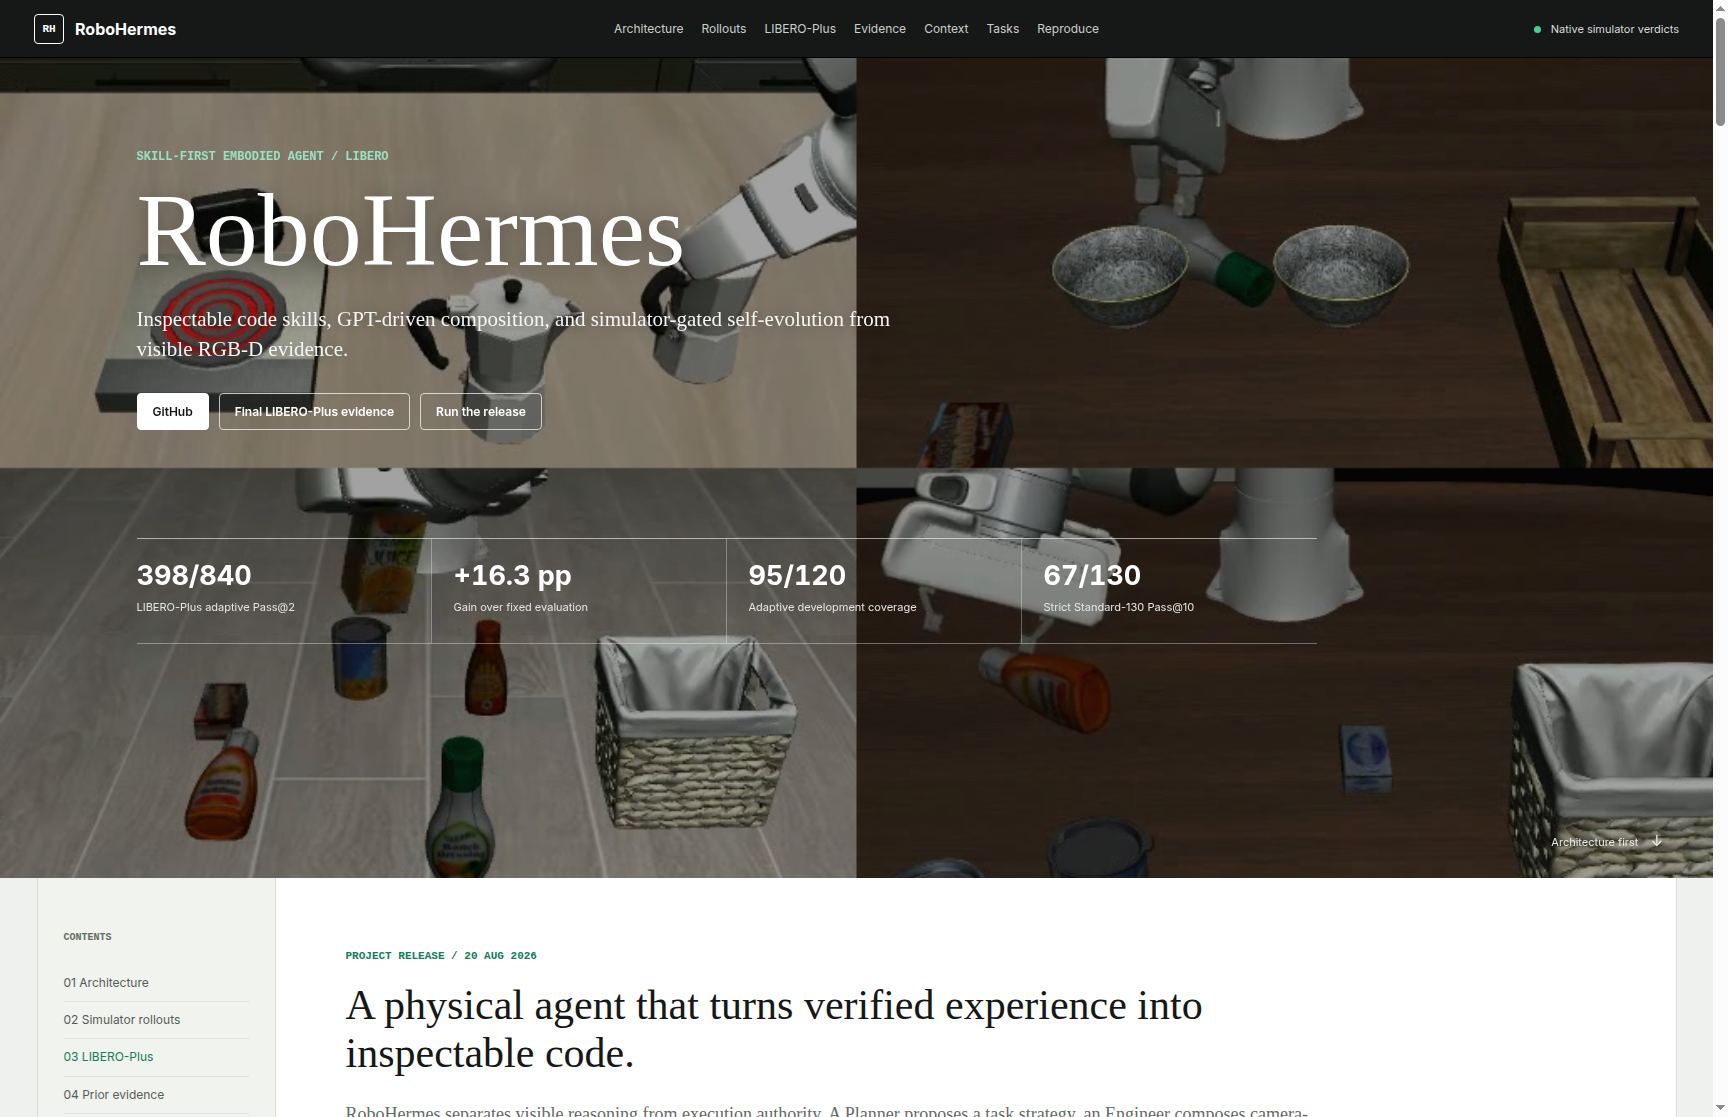
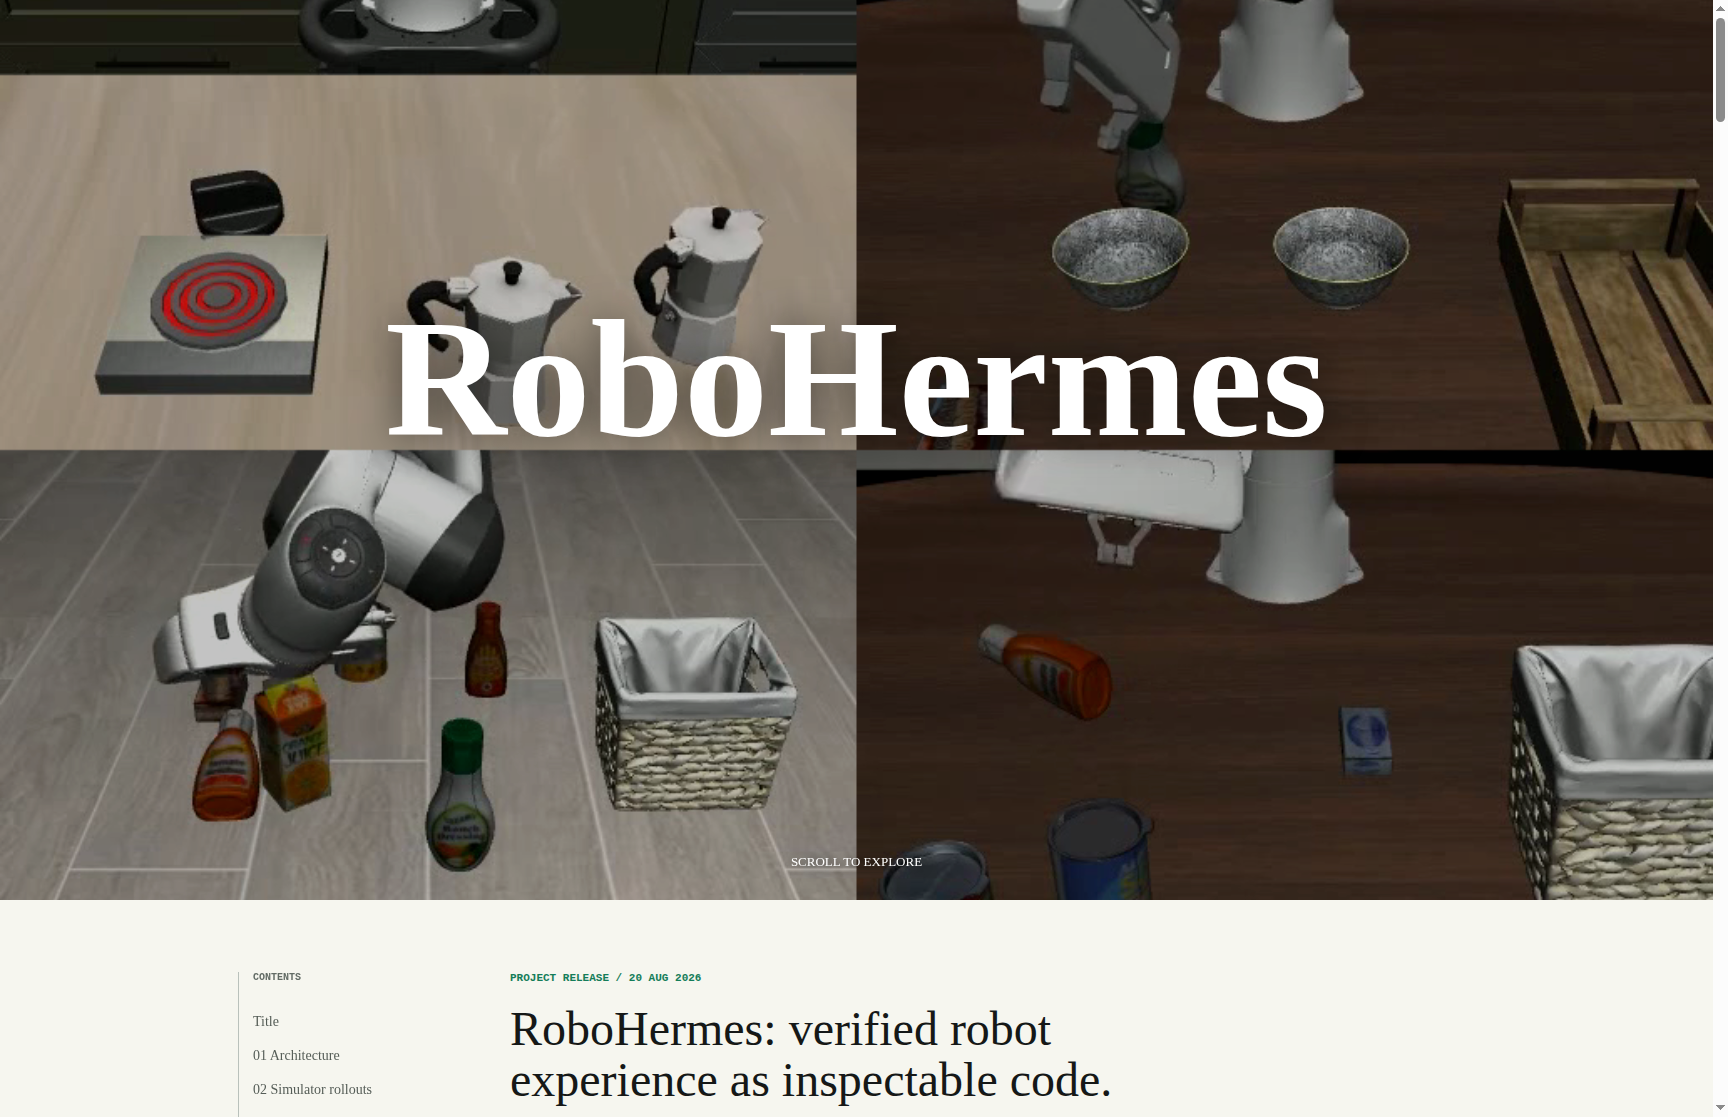
feat: align project page with ENPIRE editorial layout

diff --git a/src/robohermes_libero/static/styles.css b/src/robohermes_libero/static/styles.css
@@ -4,9 +4,9 @@
   --muted: #626b65;
   --line: #d8ddd8;
   --line-strong: #b9c1bb;
-  --paper: #ffffff;
-  --ground: #eef1ed;
-  --band: #f7f8f5;
+  --paper: #f6f6ef;
+  --ground: #f6f6ef;
+  --band: #f6f6ef;
   --green: #147d59;
   --green-soft: #dcefe5;
   --coral: #d85c44;
@@ -26,89 +26,68 @@
 
 * { box-sizing: border-box; }
 html { scroll-behavior: smooth; }
-body { min-width: 1100px; margin: 0; background: var(--ground); }
+body { min-width: 1100px; margin: 0; background: #0c0c0c; }
 button, input { font: inherit; letter-spacing: 0; }
 a { color: inherit; }
 code { font-family: var(--mono); }
 
-.topbar {
-  position: sticky;
-  top: 0;
-  z-index: 40;
-  display: grid;
-  grid-template-columns: 240px 1fr 240px;
-  align-items: center;
-  height: 58px;
-  padding: 0 34px;
-  color: #fff;
-  background: var(--ink);
-  border-bottom: 1px solid #000;
-}
-
-.brand { display: flex; gap: 11px; align-items: center; font-weight: 700; text-decoration: none; }
-.brand-mark { display: grid; place-items: center; width: 30px; height: 30px; border: 1px solid #fff; border-radius: 4px; font: 700 11px var(--mono); }
-.topbar nav { justify-self: center; display: flex; gap: 18px; }
-.topbar nav a { color: #cbd0cc; font-size: 12px; text-decoration: none; }
-.topbar nav a:hover { color: #fff; }
-.evidence-state { justify-self: end; color: #d7ddd8; font-size: 11px; }
-.evidence-state span { display: inline-block; width: 7px; height: 7px; margin-right: 7px; border-radius: 50%; background: #4bd093; }
-
-.hero {
+.article-hero {
   position: relative;
-  height: min(820px, calc(88vh - 58px));
-  min-height: 680px;
+  height: calc(100svh - 64px);
+  min-height: 650px;
+  max-height: 900px;
+  padding: 0;
   overflow: hidden;
   color: #fff;
-  background: #111;
+  background: #050505;
 }
 
-.hero-video { position: absolute; inset: 0; width: 100%; height: 100%; object-fit: cover; filter: saturate(1.05) contrast(1.04); }
-.hero-shade { position: absolute; inset: 0; background: rgba(8, 10, 9, 0.38); }
-.hero-content { position: relative; z-index: 2; width: min(1440px, calc(100% - 112px)); margin: 0 auto; padding-top: 92px; }
-.hero-kicker { margin: 0 0 18px; color: #9be0c3; font: 700 12px var(--mono); }
-.hero h1 { margin: 0; color: #fff; font: 500 104px/0.93 var(--serif); text-shadow: 0 2px 20px rgba(0,0,0,0.32); }
-.hero-deck { max-width: 790px; margin: 25px 0 28px; color: #f4f6f4; font: 400 21px/1.45 var(--serif); text-shadow: 0 1px 13px rgba(0,0,0,0.38); }
-.hero-links { display: flex; gap: 10px; }
-.hero-links a { padding: 10px 15px; border: 1px solid rgba(255,255,255,0.7); border-radius: 4px; color: #fff; font-size: 12px; font-weight: 650; text-decoration: none; }
-.hero-links a:first-child { color: var(--ink); background: #fff; border-color: #fff; }
-.hero-links a:hover { border-color: #fff; }
-.hero-results { position: absolute; top: 480px; left: 0; right: 0; display: grid; grid-template-columns: repeat(4, minmax(210px, 1fr)); max-width: 1180px; border-top: 1px solid rgba(255,255,255,0.58); border-bottom: 1px solid rgba(255,255,255,0.36); }
-.hero-results span { min-height: 104px; padding: 20px 24px 15px 0; color: #e3e7e4; border-right: 1px solid rgba(255,255,255,0.32); font-size: 11px; }
-.hero-results span + span { padding-left: 22px; }
-.hero-results span:last-child { border-right: 0; }
-.hero-results strong { display: block; margin-bottom: 8px; color: #fff; font-size: 27px; font-variant-numeric: tabular-nums; }
-.scroll-cue { position: absolute; z-index: 3; right: 50px; bottom: 28px; color: #e8ece9; font-size: 11px; text-decoration: none; }
-.scroll-cue span { margin-left: 9px; font-size: 15px; }
+.article-hero__sticky { position: relative; top: 0; height: 100%; overflow: hidden; }
+.article-hero__video { position: absolute; inset: 0; width: 100%; height: 100%; object-fit: cover; filter: saturate(1.05) contrast(1.04); }
+.hero-shade { position: absolute; inset: 0; background: rgba(5, 5, 5, 0.24); }
+.article-hero__title { position: absolute; z-index: 2; top: 42%; left: 50%; display: flex; width: min(90%, 1100px); align-items: center; justify-content: center; text-align: center; transform: translate(-50%, -50%); }
+.article-hero__wordmark { margin: 0; color: #fff; font: 600 168px/1 var(--serif); letter-spacing: 0; text-shadow: 0 2px 40px rgba(0,0,0,0.55); }
+.scroll-cue { position: absolute; z-index: 3; bottom: 30px; left: 50%; color: #fff; font: 500 13px var(--serif); letter-spacing: 0; text-decoration: none; text-shadow: 0 1px 12px rgba(0,0,0,0.7); text-transform: uppercase; transform: translateX(-50%); }
 
-.article-layout { display: grid; grid-template-columns: 238px minmax(0, 1fr); max-width: 1640px; margin: 0 auto; background: var(--paper); border-left: 1px solid var(--line); border-right: 1px solid var(--line); }
-.article-outline { align-self: start; position: sticky; top: 58px; height: calc(100vh - 58px); padding: 54px 26px; border-right: 1px solid var(--line); background: #f1f3ef; }
+.article-body { padding: 72px 48px 104px; color: var(--ink); background: var(--paper); scroll-margin-top: 0; }
+.article-layout { display: grid; grid-template-columns: 176px minmax(0, 965px); justify-content: center; align-items: start; gap: 96px; width: min(1440px, 100%); min-width: 0; margin: 0 auto; }
+.article-outline { align-self: start; position: sticky; top: 72px; min-width: 0; max-width: 100%; padding: 0 0 0 14px; border-left: 1px solid var(--line-strong); }
 .article-outline > strong { display: block; margin-bottom: 22px; color: var(--muted); font: 700 10px var(--mono); text-transform: uppercase; }
 .article-outline nav { display: grid; }
-.article-outline nav a { padding: 10px 0; color: #555d57; border-bottom: 1px solid #dfe3de; font-size: 12px; line-height: 1.35; text-decoration: none; }
+.article-outline nav a { padding: 8px 0; color: #555d57; font: 14px/1.3 var(--serif); text-decoration: none; }
 .article-outline nav a:hover, .article-outline nav a[aria-current="true"] { color: var(--green); }
-.outline-note { position: absolute; right: 26px; bottom: 34px; left: 26px; padding-top: 15px; border-top: 1px solid var(--line-strong); }
+.outline-note { margin-top: 34px; padding-top: 15px; border-top: 1px solid var(--line-strong); }
 .outline-note span { color: var(--coral); font: 700 10px var(--mono); text-transform: uppercase; }
 .outline-note p { margin: 8px 0 0; color: var(--muted); font-size: 11px; line-height: 1.55; }
-.article-shell { min-width: 0; background: #fff; }
+.article-shell { width: min(965px, 100%); min-width: 0; margin: 0 auto; background: transparent; }
 
-.project-intro { padding: 72px 70px 58px; border-bottom: 1px solid var(--line); }
+.project-intro { margin: 0 0 72px; padding: 0 0 40px; border-bottom: 1px solid var(--line-strong); }
+#article-title { scroll-margin-top: 32px; }
 .section-label { margin: 0 0 20px; color: var(--green); font: 700 11px var(--mono); }
-.project-intro h2 { max-width: 1000px; margin: 0 0 22px; font: 500 42px/1.14 var(--serif); }
-.project-intro > p:not(.section-label) { max-width: 1000px; margin: 0; color: var(--muted); font: 18px/1.65 var(--serif); }
-.intro-facts { display: grid; grid-template-columns: repeat(4, 1fr); margin-top: 45px; border-top: 1px solid var(--line); border-bottom: 1px solid var(--line); }
+.project-intro h1 { max-width: 940px; margin: 0 0 26px; font: 400 48px/1.06 var(--serif); text-wrap: balance; }
+.project-intro > p:not(.section-label) { max-width: 940px; margin: 0; color: var(--ink-soft); font: 19px/1.6 var(--serif); }
+.article-links { display: flex; gap: 10px; margin-top: 26px; }
+.article-links a { padding: 9px 14px; color: var(--ink); border: 1px solid var(--line-strong); border-radius: 4px; font-size: 12px; text-decoration: none; }
+.article-links a:first-child { color: #fff; border-color: var(--ink); background: var(--ink); }
+.intro-results { display: grid; grid-template-columns: repeat(4, 1fr); margin-top: 42px; border-top: 1px solid var(--line-strong); border-bottom: 1px solid var(--line-strong); }
+.intro-results span { min-height: 96px; padding: 18px; color: var(--muted); border-right: 1px solid var(--line); font-size: 10px; }
+.intro-results span:first-child { padding-left: 0; }
+.intro-results span:last-child { border-right: 0; }
+.intro-results strong { display: block; margin-bottom: 7px; color: var(--ink); font-size: 25px; font-variant-numeric: tabular-nums; }
+.intro-facts { display: grid; grid-template-columns: repeat(4, 1fr); margin-top: 24px; border-top: 1px solid var(--line); border-bottom: 1px solid var(--line); }
 .intro-facts span { min-height: 86px; padding: 17px 18px; border-right: 1px solid var(--line); color: var(--muted); font-size: 11px; }
 .intro-facts span:first-child { padding-left: 0; }
 .intro-facts span:last-child { border-right: 0; }
 .intro-facts strong { display: block; margin-bottom: 6px; color: var(--ink); font-size: 24px; font-variant-numeric: tabular-nums; }
 
-.article-section { padding: 72px 70px; border-bottom: 1px solid var(--line); scroll-margin-top: 58px; }
-.article-section:nth-of-type(even) { background: var(--band); }
+.article-section { padding: 64px 0 72px; border-bottom: 1px solid var(--line); scroll-margin-top: 20px; }
+.article-section:nth-of-type(even) { background: transparent; }
 .section-heading { display: flex; align-items: flex-end; justify-content: space-between; gap: 36px; margin-bottom: 38px; }
 .section-heading > div:first-child { display: flex; gap: 14px; align-items: baseline; }
 .section-heading > div > span { color: var(--coral); font: 700 11px var(--mono); }
-.section-heading h2 { margin: 0; font: 500 31px/1.1 var(--serif); }
+.section-heading h2 { margin: 0; font: 400 36px/1.1 var(--serif); }
 .section-heading > p { max-width: 480px; margin: 0 0 2px; color: var(--muted); font-size: 12px; line-height: 1.5; text-align: right; }
-.section-lede { max-width: 950px; margin: -10px 0 34px; color: var(--muted); font: 16px/1.62 var(--serif); }
+.section-lede { max-width: 900px; margin: -10px 0 34px; color: var(--ink-soft); font: 18px/1.6 var(--serif); }
 
 .architecture-canvas { position: relative; padding-top: 28px; }
 .boundary-title { position: absolute; top: 0; left: 0; color: var(--green); font: 700 10px var(--mono); }
@@ -151,11 +130,11 @@ code { font-family: var(--mono); }
 .key-recovery { background: var(--coral); }
 .key-verdict { background: var(--blue); }
 
-.plus-section { background: #fff !important; }
-.plus-score-lockup { display: grid; grid-template-columns: minmax(360px, 0.9fr) minmax(560px, 1.1fr); gap: 52px; align-items: stretch; padding: 34px 0; border-top: 1px solid var(--line-strong); border-bottom: 1px solid var(--line-strong); }
+.plus-section { background: transparent !important; }
+.plus-score-lockup { display: grid; grid-template-columns: minmax(0, 0.9fr) minmax(0, 1.1fr); gap: 36px; align-items: stretch; padding: 34px 0; border-top: 1px solid var(--line-strong); border-bottom: 1px solid var(--line-strong); }
 .plus-score-copy > span, .plus-stage-heading > span, .plus-video-heading span { display: block; color: var(--green); font: 700 9px var(--mono); }
 .plus-score-copy h3 { max-width: 600px; margin: 12px 0 14px; font: 500 29px/1.17 var(--serif); }
-.plus-score-copy p { margin: 0; color: var(--muted); font: 14px/1.6 var(--serif); }
+.plus-score-copy p { margin: 0; color: var(--ink-soft); font: 17px/1.6 var(--serif); }
 .plus-score-pair { display: grid; grid-template-columns: repeat(3, 1fr); align-items: stretch; border-left: 1px solid var(--line); }
 .plus-score-pair > div { min-width: 0; padding: 22px 12px 18px 24px; border-right: 1px solid var(--line); }
 .plus-score-pair > div:last-child { border-right: 0; }
@@ -208,7 +187,7 @@ code { font-family: var(--mono); }
 .track-label.case { color: var(--coral); }
 .evidence-track h3 { margin: 0; font: 600 28px/1.15 var(--serif); }
 .track-score { font: 600 30px var(--serif); font-variant-numeric: tabular-nums; }
-.evidence-track > p:not(.scope-note) { max-width: 980px; margin: 0 0 30px; color: var(--muted); font: 15px/1.6 var(--serif); }
+.evidence-track > p:not(.scope-note) { max-width: 920px; margin: 0 0 30px; color: var(--ink-soft); font: 17px/1.6 var(--serif); }
 .track-grid { display: grid; grid-template-columns: minmax(0, 1.45fr) minmax(270px, 0.7fr); gap: 36px; align-items: start; }
 figure { min-width: 0; margin: 0; }
 figcaption { margin-bottom: 12px; font-size: 11px; font-weight: 700; }
@@ -338,14 +317,12 @@ footer { display: flex; align-items: center; justify-content: space-between; max
 .sr-only { position: absolute; width: 1px; height: 1px; padding: 0; margin: -1px; overflow: hidden; clip: rect(0, 0, 0, 0); white-space: nowrap; border: 0; }
 
 @media (max-width: 1240px) {
-  .hero-content { width: calc(100% - 80px); }
-  .hero h1 { font-size: 92px; }
-  .hero-results { grid-template-columns: repeat(4, minmax(190px, 1fr)); }
-  .article-layout { grid-template-columns: 190px minmax(0, 1fr); }
-  .article-outline { padding-right: 20px; padding-left: 20px; }
-  .article-section, .project-intro { padding-right: 46px; padding-left: 46px; }
+  .article-hero__wordmark { font-size: 132px; }
+  .article-body { padding-right: 32px; padding-left: 32px; }
+  .article-layout { grid-template-columns: 160px minmax(0, 860px); gap: 42px; }
+  .article-outline { top: 58px; }
   .video-grid { gap: 13px; }
   .host-boundary { grid-template-columns: 205px 205px 1fr; }
-  .plus-score-lockup { grid-template-columns: 0.8fr 1.2fr; gap: 34px; }
+  .plus-score-lockup { grid-template-columns: minmax(0, 0.8fr) minmax(0, 1.2fr); gap: 28px; }
   .plus-score-pair strong { font-size: 27px; }
 }

diff --git a/src/robohermes_libero/static/index.html b/src/robohermes_libero/static/index.html
@@ -10,68 +10,53 @@
     <link rel="stylesheet" href="styles.css">
   </head>
   <body>
-    <header class="topbar">
-      <a class="brand" href="#overview" aria-label="RoboHermes overview">
-        <span class="brand-mark">RH</span>
-        <span>RoboHermes</span>
-      </a>
-      <nav aria-label="Project sections">
-        <a href="#architecture">Architecture</a>
-        <a href="#simulations">Rollouts</a>
-        <a href="#libero-plus">LIBERO-Plus</a>
-        <a href="#experiments">Evidence</a>
-        <a href="#comparison">Context</a>
-        <a href="#tasks">Tasks</a>
-        <a href="#reproduce">Reproduce</a>
-      </nav>
-      <div class="evidence-state"><span></span> Native simulator verdicts</div>
-    </header>
-
-    <section id="overview" class="hero" aria-labelledby="hero-title">
-      <video class="hero-video" autoplay loop muted playsinline preload="auto" src="media/hero-libero-short.mp4"></video>
-      <div class="hero-shade" aria-hidden="true"></div>
-      <div class="hero-content">
-        <p class="hero-kicker">SKILL-FIRST EMBODIED AGENT / LIBERO</p>
-        <h1 id="hero-title">RoboHermes</h1>
-        <p class="hero-deck">Inspectable code skills, GPT-driven composition, and simulator-gated self-evolution from visible RGB-D evidence.</p>
-        <div class="hero-links" aria-label="Project resources">
-          <a href="https://github.com/nssmd/RoboHermes-LIBERO">GitHub</a>
-          <a href="#libero-plus">Final LIBERO-Plus evidence</a>
-          <a href="#reproduce">Run the release</a>
+    <section id="overview" class="article-hero" aria-labelledby="hero-title">
+      <div class="article-hero__sticky">
+        <video class="article-hero__video" autoplay loop muted playsinline preload="auto" src="media/hero-libero-short.mp4"></video>
+        <div class="hero-shade" aria-hidden="true"></div>
+        <div class="article-hero__title">
+          <h1 id="hero-title" class="article-hero__wordmark">RoboHermes</h1>
         </div>
-        <div class="hero-results" aria-label="Headline results">
-          <span><strong id="hero-plus-score">--</strong>LIBERO-Plus adaptive Pass@2</span>
-          <span><strong id="hero-plus-uplift">--</strong>Gain over fixed evaluation</span>
-          <span><strong id="hero-adaptive">95/120</strong>Adaptive development coverage</span>
-          <span><strong>67/130</strong>Strict Standard-130 Pass@10</span>
-        </div>
+        <a class="scroll-cue" href="#article-content">Scroll to explore</a>
       </div>
-      <a class="scroll-cue" href="#architecture">Architecture first <span aria-hidden="true">↓</span></a>
     </section>
 
-    <main class="article-layout">
-      <aside class="article-outline" aria-label="Article outline">
-        <strong>Contents</strong>
-        <nav>
-          <a href="#architecture">01 Architecture</a>
-          <a href="#simulations">02 Simulator rollouts</a>
-          <a href="#libero-plus">03 LIBERO-Plus</a>
-          <a href="#experiments">04 Prior evidence</a>
-          <a href="#comparison">05 Competitive context</a>
-          <a href="#tasks">06 Task evidence</a>
-          <a href="#reproduce">07 Reproduce</a>
-        </nav>
-        <div class="outline-note">
-          <span>Result boundary</span>
-          <p>Adaptive, strict, matched-ablation, and ACT results remain separate.</p>
-        </div>
-      </aside>
+    <main id="article-content" class="article-body">
+      <div class="article-layout">
+        <aside class="article-outline" aria-label="Article outline">
+          <strong>Contents</strong>
+          <nav>
+            <a href="#article-title">Title</a>
+            <a href="#architecture">01 Architecture</a>
+            <a href="#simulations">02 Simulator rollouts</a>
+            <a href="#libero-plus">03 LIBERO-Plus</a>
+            <a href="#experiments">04 Prior evidence</a>
+            <a href="#comparison">05 Competitive context</a>
+            <a href="#tasks">06 Task evidence</a>
+            <a href="#reproduce">07 Reproduce</a>
+          </nav>
+          <div class="outline-note">
+            <span>Result boundary</span>
+            <p>Adaptive, strict, matched-ablation, and ACT results remain separate.</p>
+          </div>
+        </aside>
 
-      <article class="article-shell">
-        <header class="project-intro">
+        <article class="article-shell">
+        <header id="article-title" class="project-intro article-title-block">
           <p class="section-label">PROJECT RELEASE / 20 AUG 2026</p>
-          <h2>A physical agent that turns verified experience into inspectable code.</h2>
+          <h1>RoboHermes: verified robot experience as inspectable code.</h1>
           <p>RoboHermes separates visible reasoning from execution authority. A Planner proposes a task strategy, an Engineer composes camera-grounded tools, and a Reviewer diagnoses the visible trace. Candidate code enters an isolated overlay and is retained only after a native simulator-success harness verdict.</p>
+          <div class="article-links" aria-label="Project resources">
+            <a href="https://github.com/nssmd/RoboHermes-LIBERO">GitHub</a>
+            <a href="#libero-plus">LIBERO-Plus evidence</a>
+            <a href="#reproduce">Reproduce</a>
+          </div>
+          <div class="intro-results" aria-label="Headline results">
+            <span><strong id="hero-plus-score">--</strong>LIBERO-Plus adaptive Pass@2</span>
+            <span><strong id="hero-plus-uplift">--</strong>Gain over fixed evaluation</span>
+            <span><strong id="hero-adaptive">95/120</strong>Adaptive development coverage</span>
+            <span><strong>67/130</strong>Strict Standard-130 Pass@10</span>
+          </div>
           <div class="intro-facts">
             <span><strong>35</strong>base tools</span>
             <span><strong>840</strong>Plus identities</span>
@@ -345,7 +330,8 @@
             <a href="https://github.com/nssmd/RoboHermes-LIBERO/blob/main/SOCIAL_COPY.md">X launch copy</a>
           </div>
         </section>
-      </article>
+        </article>
+      </div>
     </main>
 
     <footer>

diff --git a/tests/test_dashboard.py b/tests/test_dashboard.py
@@ -253,3 +253,28 @@ def test_project_page_exposes_enpire_style_libero_plus_evidence_surface() -> Non
     assert "media/figures/libero-plus-final.svg" in html
     assert "840 stratified perturbation identities" in html
     assert "Adaptive Pass@2" in html
+
+
+def test_project_page_uses_enpire_editorial_layout() -> None:
+    static = Path(__file__).resolve().parents[1] / "src/robohermes_libero/static"
+    html = (static / "index.html").read_text(encoding="utf-8")
+    css = (static / "styles.css").read_text(encoding="utf-8")
+
+    assert 'class="topbar"' not in html
+    assert 'class="article-hero"' in html
+    assert 'class="article-hero__sticky"' in html
+    assert 'class="article-hero__wordmark"' in html
+    assert 'id="article-content"' in html
+    assert 'id="article-title"' in html
+    assert 'class="article-body"' in html
+    assert 'class="article-links"' in html
+    assert 'class="intro-results"' in html
+
+    hero = html[html.index('id="overview"') : html.index("</section>")]
+    assert 'class="hero-results"' not in hero
+    assert 'class="hero-links"' not in hero
+    assert html.index('id="overview"') < html.index('id="article-content"')
+    assert html.index('id="article-title"') < html.index('id="architecture"')
+
+    assert "grid-template-columns: 176px minmax(0, 965px)" in css
+    assert "width: min(965px, 100%)" in css

diff --git a/README.md b/README.md
@@ -5,7 +5,7 @@
 </p>
 
 <p align="center">
-  <img alt="63 tests passed" src="https://img.shields.io/badge/tests-63_passed-16845b">
+  <img alt="64 tests passed" src="https://img.shields.io/badge/tests-64_passed-16845b">
   <a href="LICENSE"><img alt="Apache-2.0" src="https://img.shields.io/badge/license-Apache--2.0-1f6feb"></a>
   <img alt="Python 3.10-3.12" src="https://img.shields.io/badge/python-3.10--3.12-3776ab">
   <img alt="LIBERO short 120" src="https://img.shields.io/badge/LIBERO_short-120_tasks-16845b">
